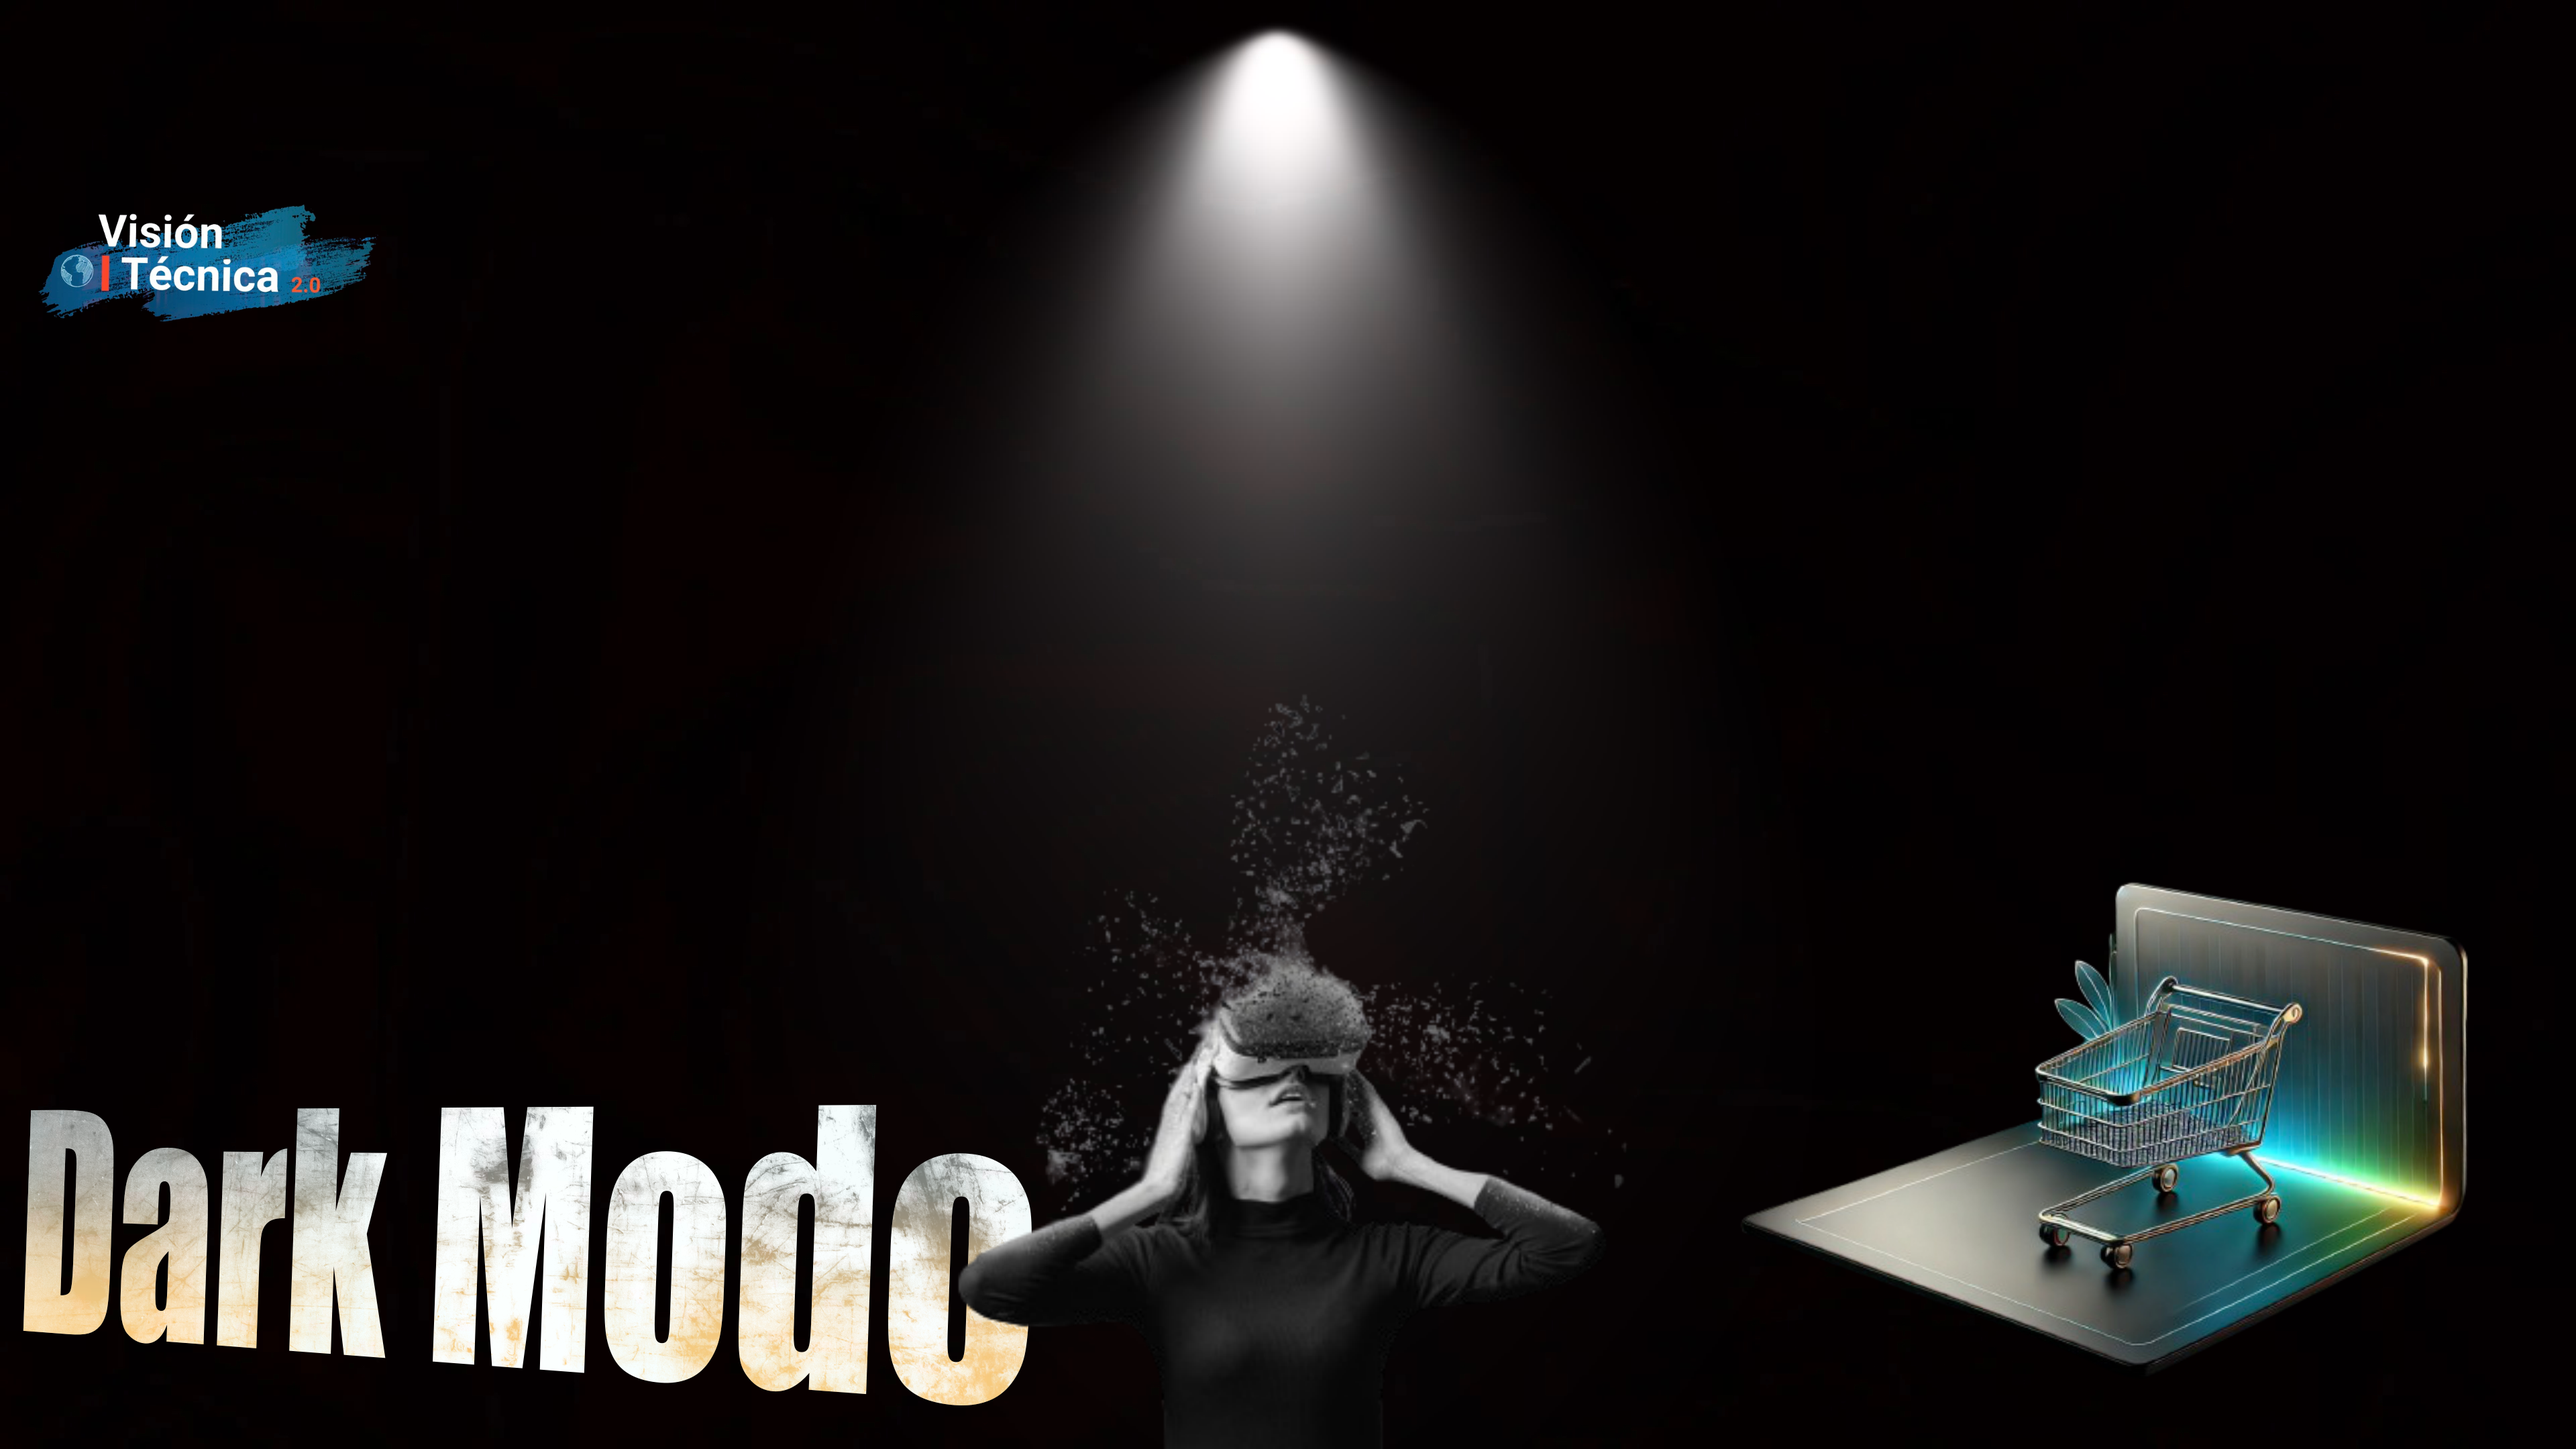
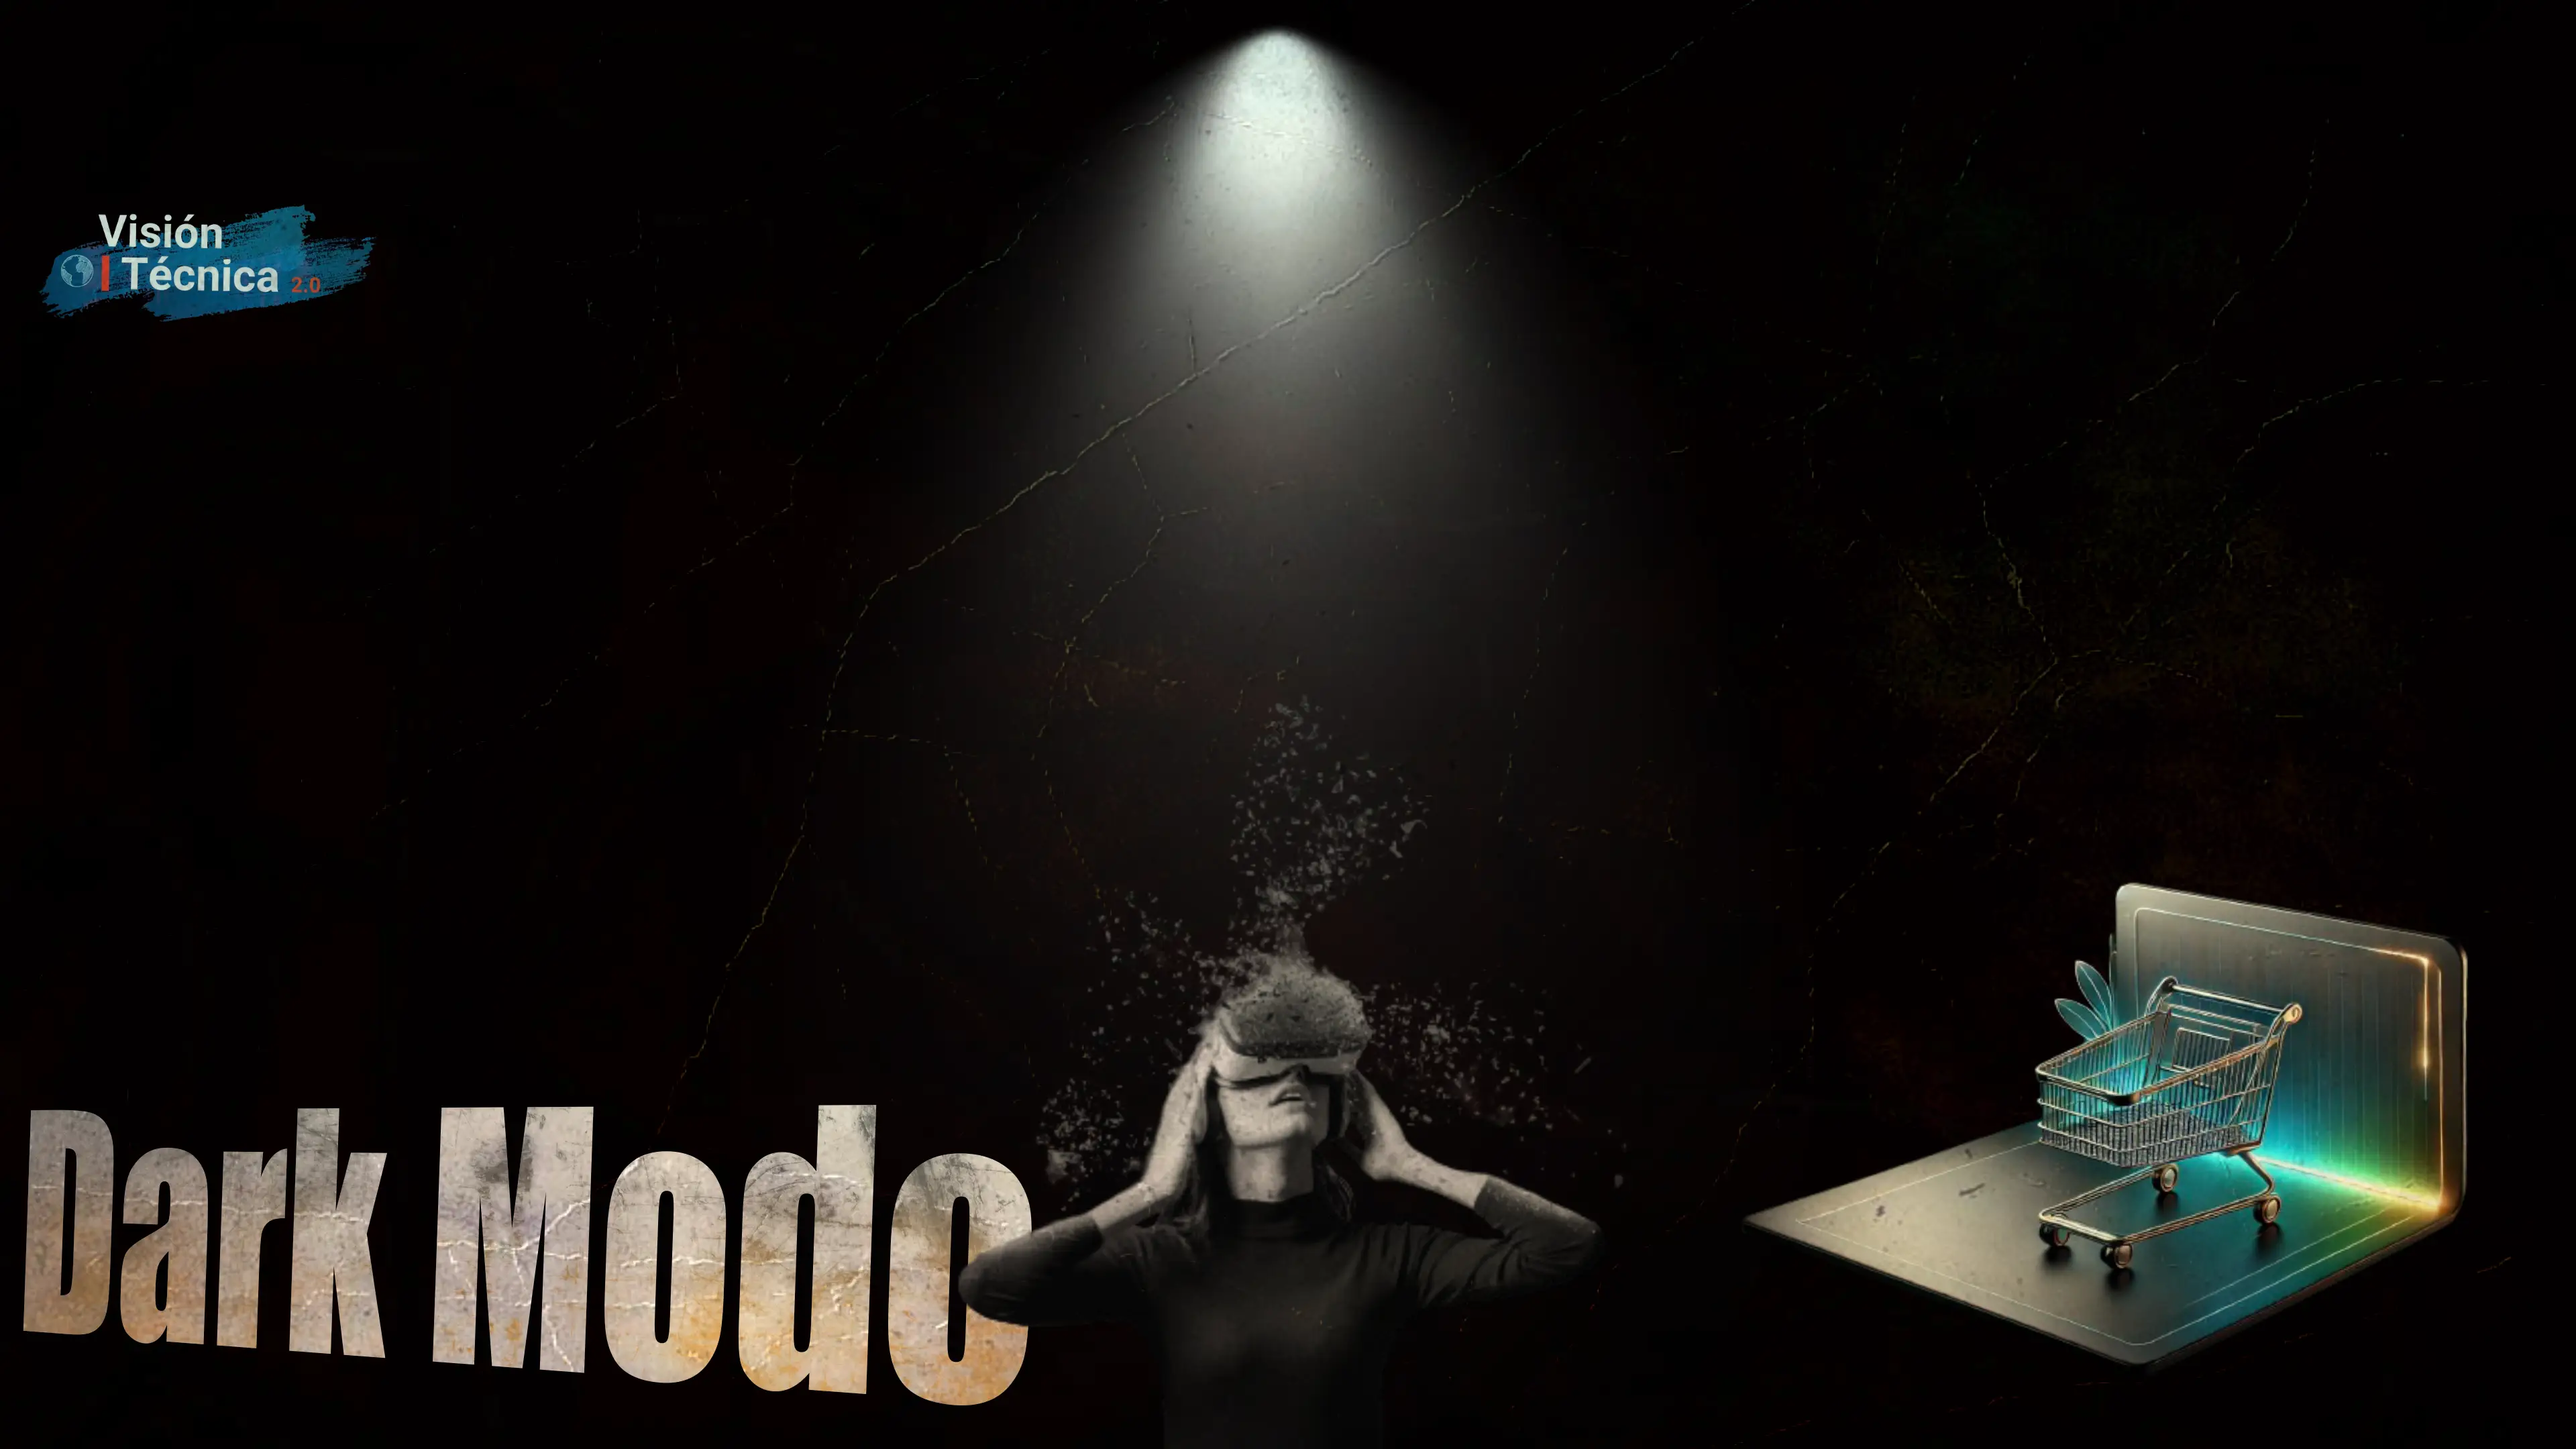
javaScriptMaxi8

diff --git a/css/styles.css b/css/styles.css
@@ -3,7 +3,7 @@ body {
     height: 100%;
     margin: 0;
     padding: 0;
-    background-image: url('../asset/imagenes/DarkModo8.webp');
+    background-image: url('../asset/imagenes/LightModo.webp');
     background-size: cover;
     background-position: center;
     background-attachment: fixed;
@@ -74,6 +74,7 @@ body.dark-mode {
     border: 1px solid #b9b8bb;
     border-radius: 10px;
     text-align: center;
+    background-color: rgba(255, 255, 255, 0.309);
     transition: transform 0.3s ease, box-shadow 0.3s ease;
 }
 
@@ -86,11 +87,13 @@ body.dark-mode {
 .product-card h2 {
     font-size: 18px;
     margin: 10px 0;
+
 }
 
 .product-card p {
     font-size: 16px;
     margin: 10px 0;
+
 }
 
 .products h1 {
